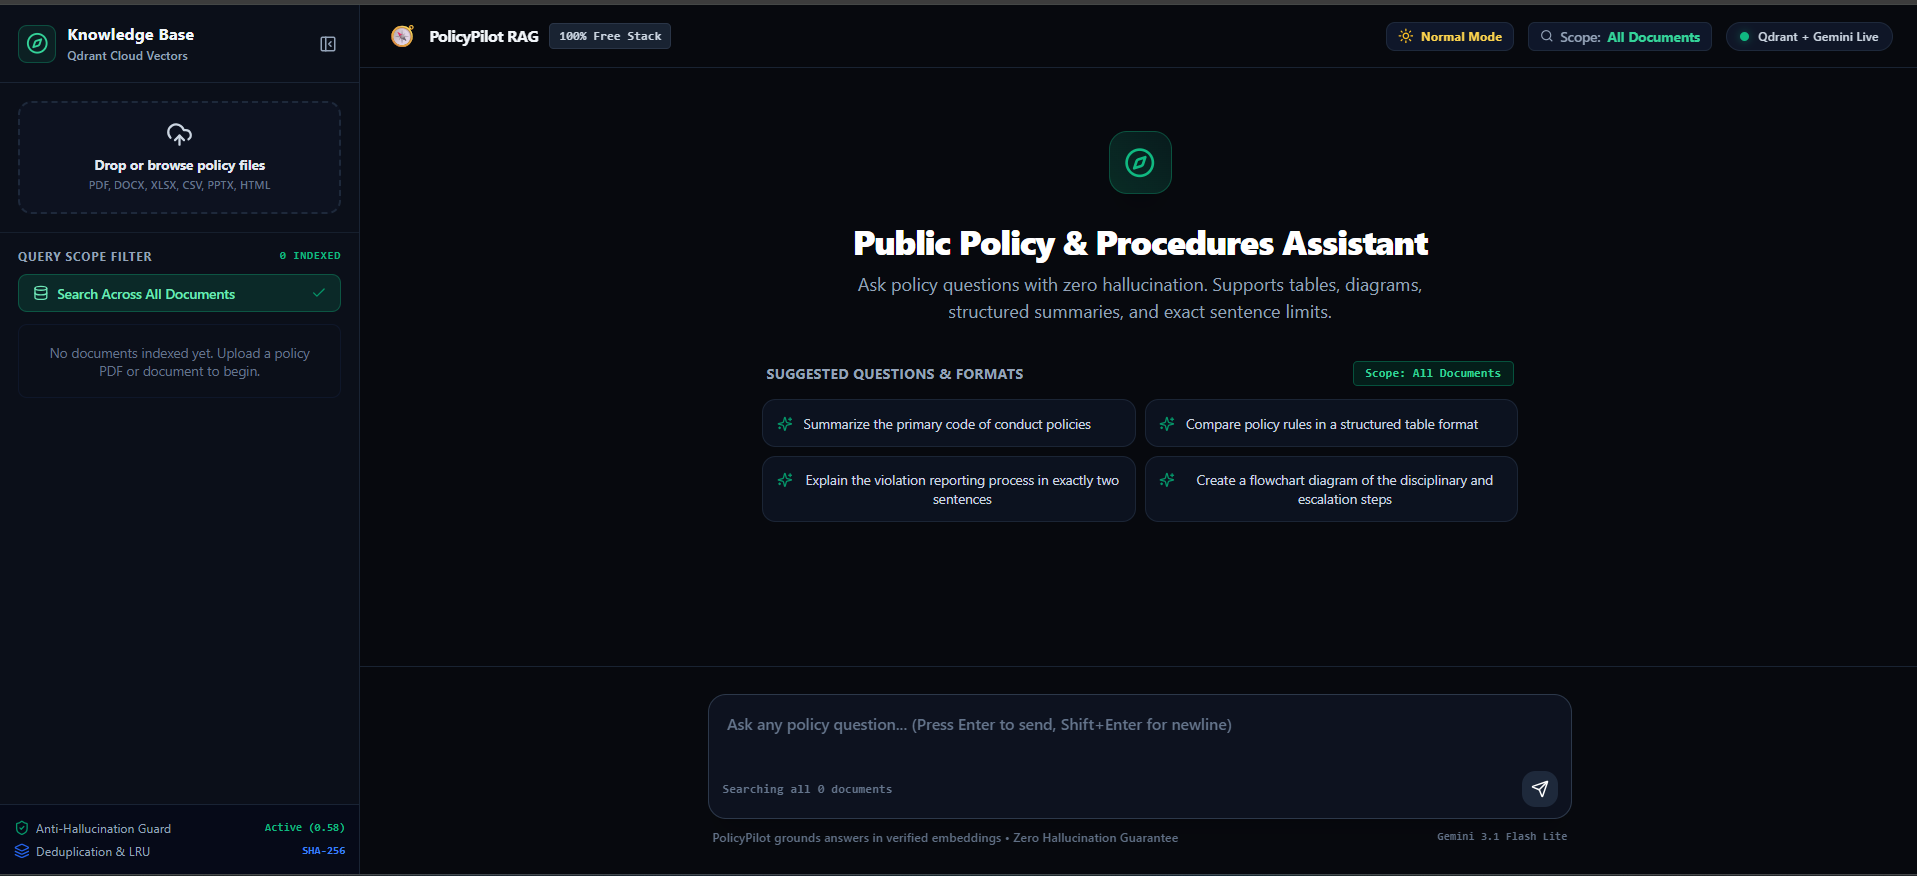
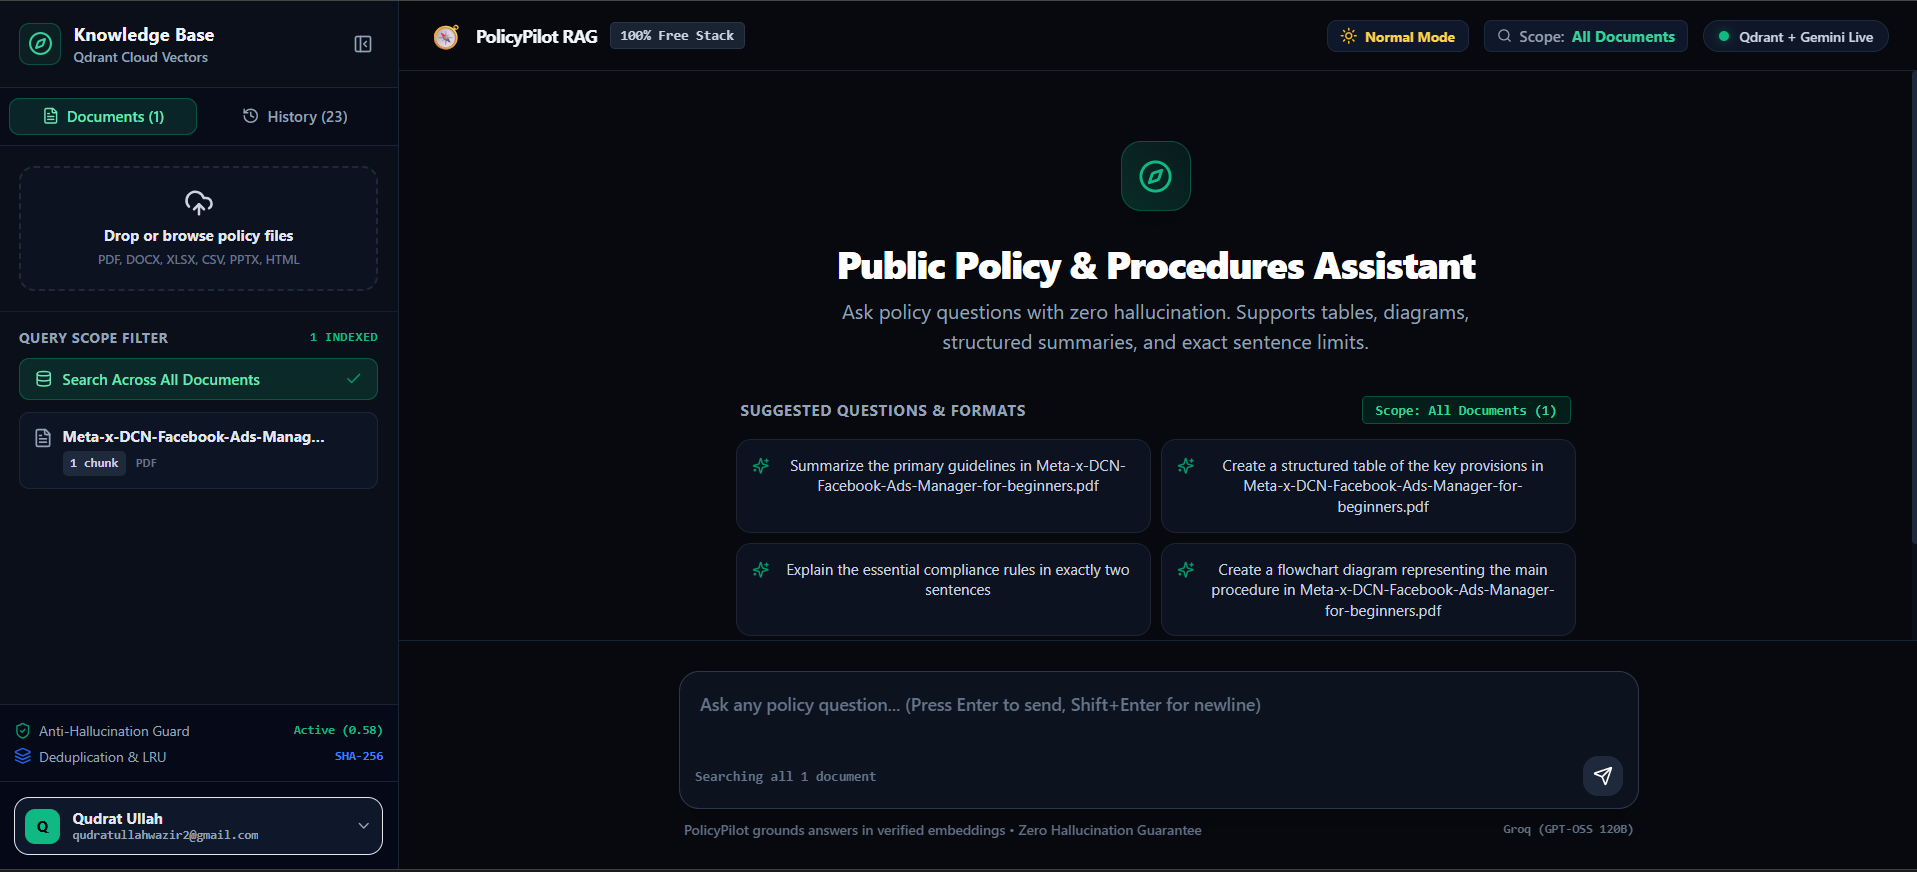
docs(readme): update showcase gallery with latest UI assets and descriptions

diff --git a/README.md b/README.md
@@ -66,23 +66,48 @@ To guarantee maximum availability and instant sub-second responses:
 
 ## 📸 Application Showcase & User Experience
 
+### 1. High-Impact Enterprise Landing Page
+<p align="center">
+  <img src="./docs/assets/landing_page.png" alt="PolicyPilot Enterprise Landing Page" width="100%"/>
+</p>
+
+> **Product Landing Page**: Presents PolicyPilot's zero-cost, enterprise-grade policy intelligence, strict grounding guarantees, and instant feature exploration before sign-in.
+
+---
+
+### 2. Enterprise Authentication & Access Control
+<p align="center">
+  <img src="./docs/assets/Registration%20and%20Login.png" alt="Enterprise Auth & Registration Modal" width="100%"/>
+</p>
+
+> **Supabase Auth Engine**: Multi-tenant authentication modal supporting Email & Password registration, 1-click Google OAuth single sign-on, password visibility toggles, and international contact selector with Pakistan (`🇵🇰 +92`) pre-selected by default.
+
+---
+
+### 3. Central Knowledge Base & Document Hub
 <p align="center">
   <img src="./docs/assets/main_dasboard.png" alt="PolicyPilot Central Dashboard" width="100%"/>
 </p>
 
-> **Central Knowledge Base**: Features real-time Qdrant Cloud vector status, SHA-256 deduplication, active anti-hallucination threshold monitoring (0.58), multi-format file ingestion (PDF, DOCX, XLSX, CSV, PPTX, HTML), and persistent user history.
+> **Central Knowledge Base**: Features real-time Qdrant Cloud vector cluster connectivity, SHA-256 deduplication (0 tokens spent on re-upload), active anti-hallucination threshold monitoring (0.58), multi-format file ingestion (PDF, DOCX, XLSX, CSV, PPTX, HTML), query scope filters, and docked user profile management.
 
+---
+
+### 4. Transparent Grounded QA & Audit Trail
 <p align="center">
-  <img src="./docs/assets/response_screen.jpg" alt="Policy Comparison and Citation Matrix" width="100%"/>
+  <img src="./docs/assets/Response_screen.png" alt="Policy Comparison and Citation Matrix" width="100%"/>
 </p>
 
-> **Transparent Grounding & Cross-Comparison**: Grounded synthesis comparing operational policies. Every assertion cites exact document pages (`[1]`, `[2]`, `[3]`), accompanied by an expandable 4-chunk retrieval audit trail (`Score: 0.6900`), copy answers, and table-level inspection.
+> **Strict Grounding & Transparent Citations**: High-speed synthesis powered by the cascading multi-model fallback chain. Every factual claim cites exact document pages (`[1]`, `[2]`), accompanied by an expandable 4-chunk retrieval audit trail with cosine similarity scores, quick copy controls, and tabular inspections.
 
+---
+
+### 5. High-Fidelity Executive PDF Compliance Export
 <p align="center">
   <img src="./docs/assets/pdf_export.jpg" alt="Executive PDF Compliance Report" width="85%"/>
 </p>
 
-> **High-Fidelity PDF Compliance Export**: Single-click boardroom-ready report featuring Deep Slate & Emerald corporate branding, dynamic Purpose & Scope verification headers, auto-wrapped data tables, and zero raw markdown artifacts.
+> **Boardroom-Ready Compliance Export**: Single-click PDF export delivering executive compliance reports featuring Deep Slate & Emerald corporate branding, dynamic Purpose & Scope verification headers, auto-wrapped data tables, and zero raw markdown artifacts.
 
 ---
 
